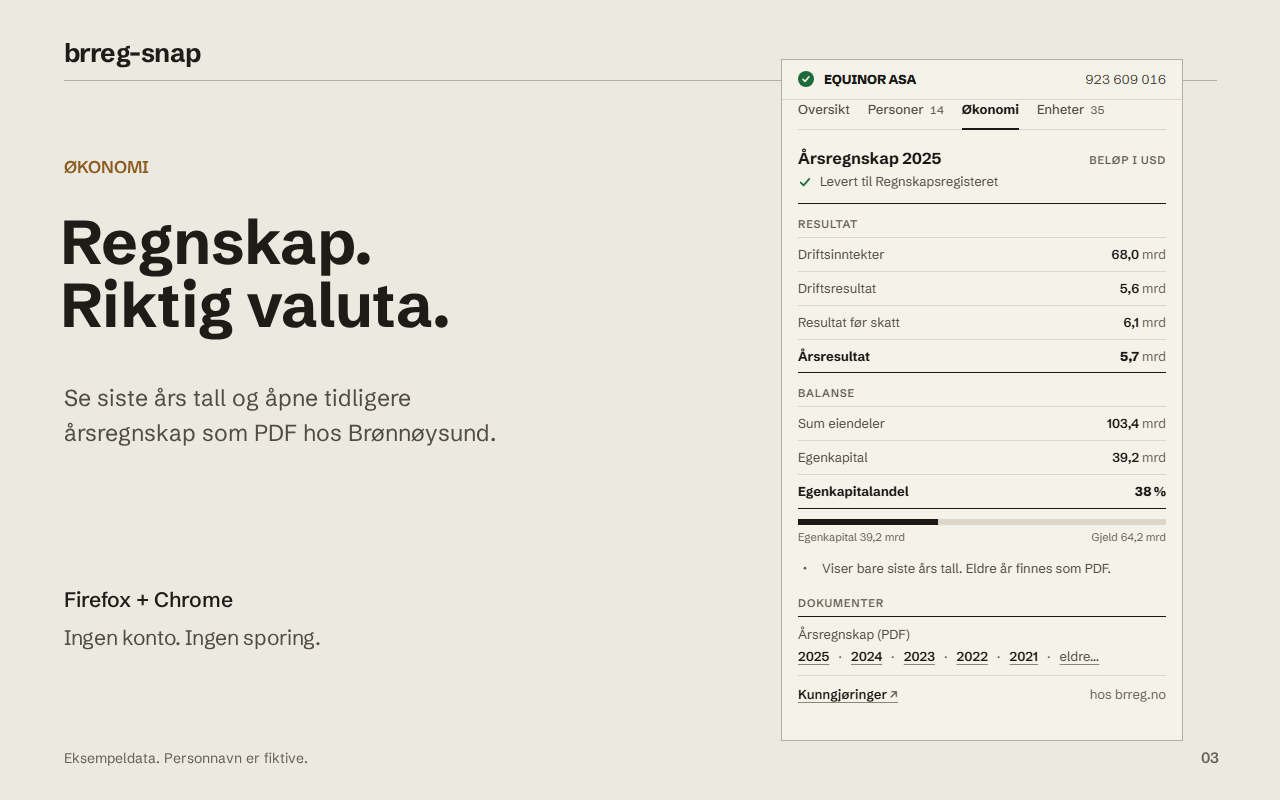
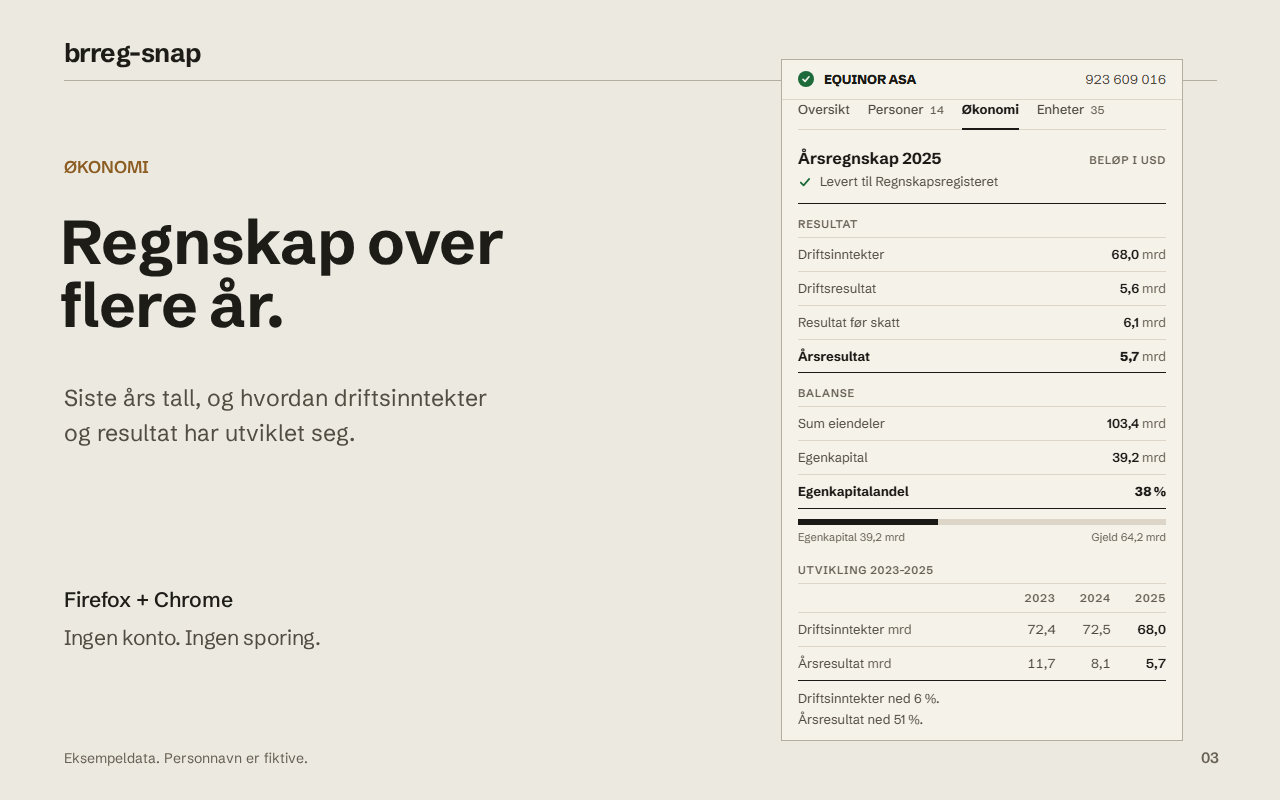
docs(screenshots): show the Økonomi trend in image 03; drop the version from the file names

Changed region(s): [[0.625, 0.6875, 0.9062, 0.9062], [0.0312, 0.4688, 0.375, 0.5625], [0.0312, 0.2812, 0.4062, 0.4375]]

diff --git a/docs/screenshots/README.md b/docs/screenshots/README.md
@@ -1,19 +1,21 @@
 # Store screenshots
 
-The current set is `v1.4-01-lookup.png` through `v1.4-05-search.png`.
+The current set is `01-lookup.png` through `05-search.png`.
 Upload all five in numerical order to AMO and CWS. Each is a 1280×800
 RGB PNG with Norwegian captions and the bundled Schibsted Grotesk font.
 
 ## Source
 
-The UI captures come from a local `pnpm smoke` run on `dev` at the
-commit «feat(brand): the refined overhand knot». The smoke runs the real
-built UI through `scripts/preview/serve.mjs` with the recorded fixtures
-in `tests/e2e/fixtures` and writes its captures to
-`test-results/screenshots/`. No live API data was used for these images;
-person names are fictional. The caption canvas is composed by a script
-kept outside the repo; it adds no UI elements and does not alter the
-captured text or data.
+The UI captures come from a local `pnpm smoke` run on the re-recorded
+fixtures of 2026-10-15 («test(e2e): re-record fixtures from the live
+API»). The smoke runs the real built UI through
+`scripts/preview/serve.mjs` with the fixtures in `tests/e2e/fixtures`
+and writes its captures to `test-results/screenshots/`; it makes no
+live API request. The figures are real register data as of the
+recording; person names are fictional (`tests/e2e/fixtures/README.md`
+lists what the recorder replaces). The caption canvas is composed by a
+script kept outside the repo; it adds no UI elements and does not alter
+the captured text or data.
 
 | Image | Capture under `screenshots/` | Crop in source pixels |
 |---|---|---|
@@ -26,8 +28,9 @@ captured text or data.
 Captures keep their original pixel scale on the caption canvas, and
 each crop ends between two rows, never through one.
 The accounts and group crops start at the panel's compact company
-header, matching the view after scrolling. The footer explicitly
-labels the data as examples and the person names as fictional.
+header, matching the view after scrolling; the accounts crop ends below
+the Økonomi trend's sentences. The footer explicitly labels the data as
+examples and the person names as fictional.
 
 To regenerate the underlying captures, run `pnpm smoke`. The preview
 setup and fixture limits are in `scripts/preview/README.md`.

diff --git a/docs/cws-submission.md b/docs/cws-submission.md
@@ -29,7 +29,7 @@ dashboard after submission — get it right in the zip.
   (rendered from `assets/brand/mark-128.svg`, art inside the centred
   96 px; the one blue reads on light and dark).
 - **Screenshots:** 1–5, **1280×800** (preferred) or 640×400, PNG/JPEG,
-  square corners, full-bleed, showing the real UI. Upload the five `docs/screenshots/v1.4-*.png`
+  square corners, full-bleed, showing the real UI. Upload the five `docs/screenshots/0*.png`
   files in numerical order. Fixture data and provenance:
   `docs/screenshots/README.md`.
 - **Description:** plain text. CWS does not render Markdown, so no

diff --git a/README.md b/README.md
@@ -61,7 +61,7 @@ tab.
 On install, a welcome page opens once to show how to use it. It makes
 no network request.
 
-![brreg-snap popup on dnb.no: DNB BANK ASA, no warnings in the register, dnb.no is its registered website (example data)](docs/screenshots/v1.4-01-lookup.png)
+![brreg-snap popup on dnb.no: DNB BANK ASA, no warnings in the register, dnb.no is its registered website (example data)](docs/screenshots/01-lookup.png)
 
 ## Security model
 

diff --git a/docs/amo-submission.md b/docs/amo-submission.md
@@ -224,7 +224,7 @@ permission, explaining why each is necessary.
 
 ## Screenshots
 
-Upload the five `docs/screenshots/v1.4-*.png` files in numerical
+Upload the five `docs/screenshots/0*.png` files in numerical
 order (1280×800, RGB PNG). What they show and how they were made:
 `docs/screenshots/README.md`.
 
